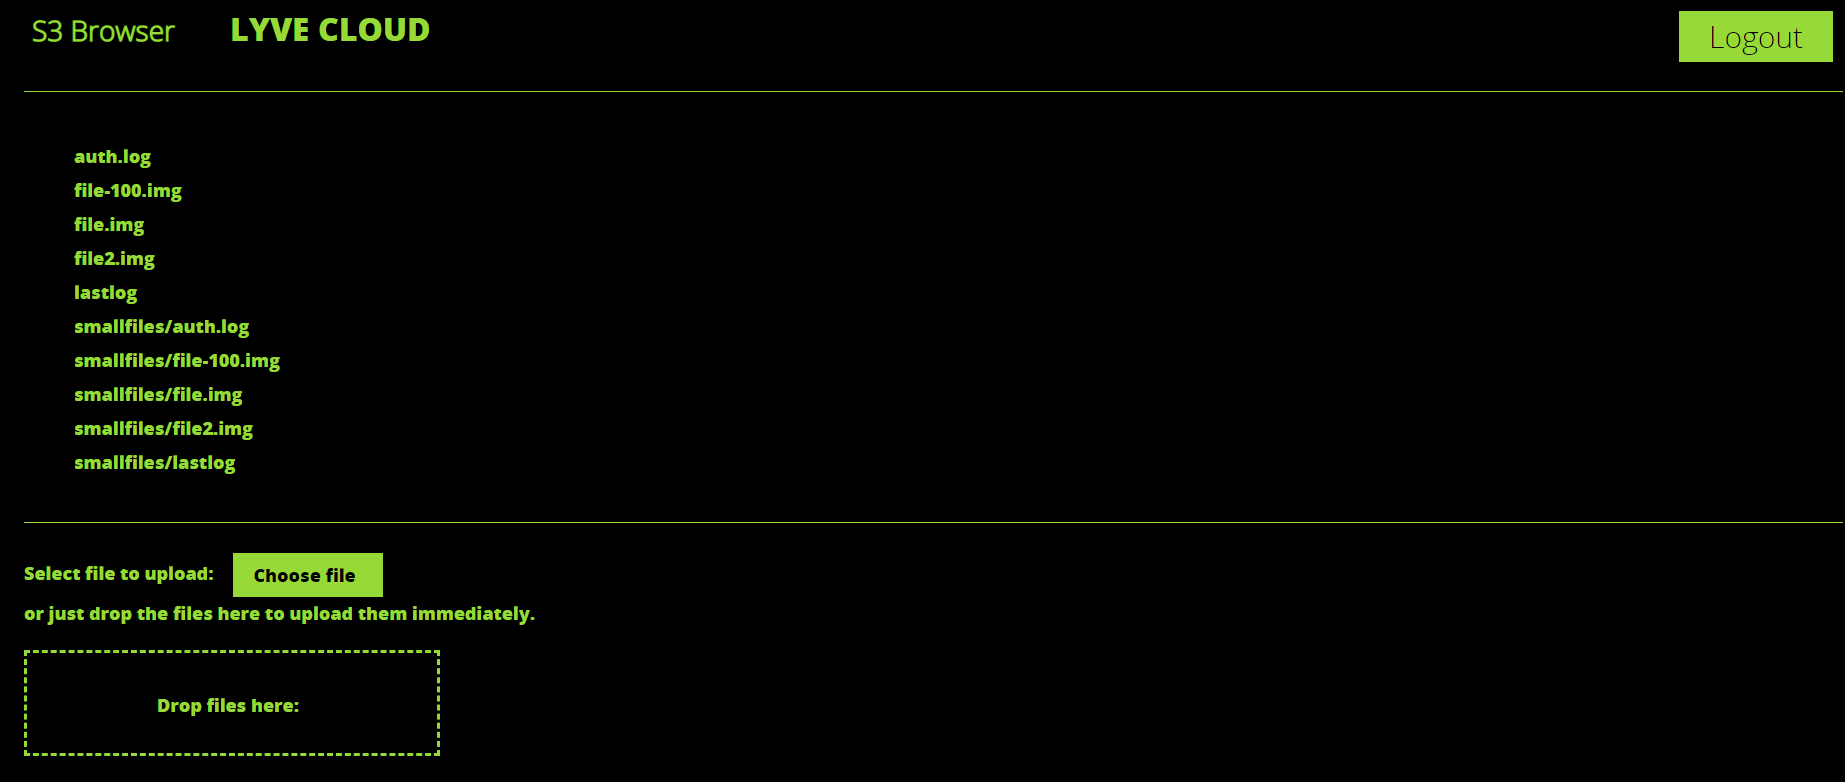
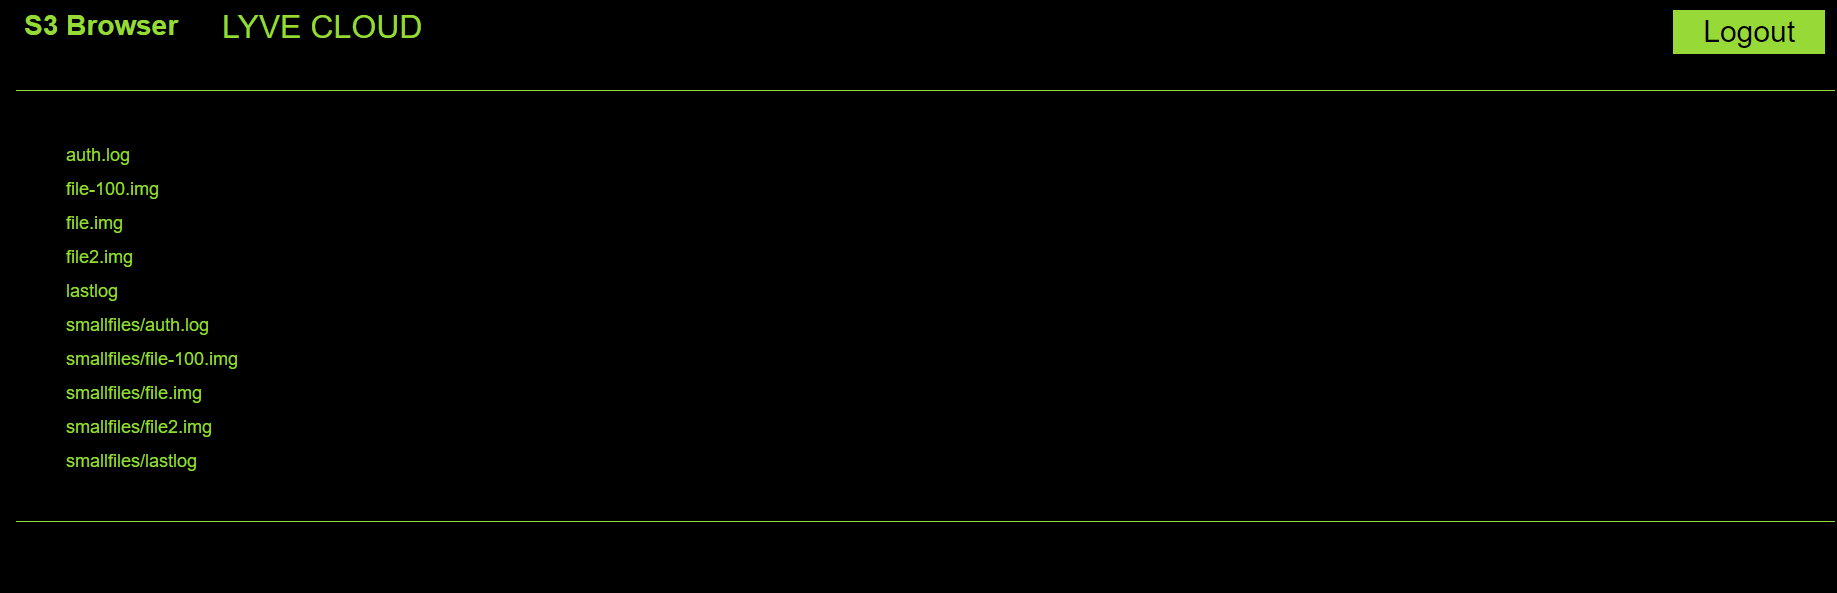
update the image

diff --git a/lyve-s3-browser/README.md b/lyve-s3-browser/README.md
@@ -4,7 +4,7 @@
 Lyve-S3-Browser is a file browser for Lyve Cloud S3.
  
 Lyve-S3-Browser is simply a browser-based client
-Enabling Lyve Cloud users to browse,download and upload files over Lyve Cloud S3 bucket.
+Enabling Lyve Cloud users to browse and download files over Lyve Cloud S3 bucket.
 
 
 ## Requirements
